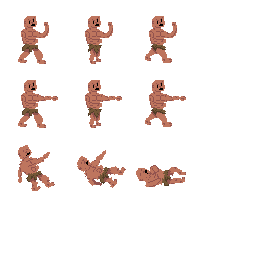
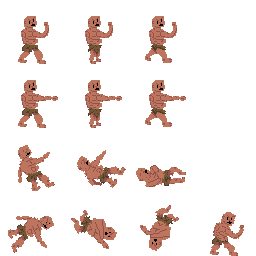
Added tridents and dodging

diff --git a/LD45-Compo-core/src/finalforeach/ld45/Gladiator.java b/LD45-Compo-core/src/finalforeach/ld45/Gladiator.java
@@ -28,9 +28,9 @@ public class Gladiator extends Fighter
 	
 	float hitTimer;
 	int i,j;
-	public Gladiator(float x,float y)
+	public Gladiator(String team,float x,float y)
 	{
-		super(x,y);
+		super(team,x,y);
 	}
 	
 	@Override
@@ -39,7 +39,7 @@ public class Gladiator extends Fighter
 		hitTimer=0.2f;
 		owSounds[MathUtils.random(0, owSounds.length-1)].play();
 	}
-	float animationTime=0, atkTimer=-1, deathTime=0;
+	float animationTime=0, atkTimer=-1, deathTime=0,rollTimer=-1;
 	@Override
 	public void update(float deltaTime) {
 		super.update(deltaTime);
@@ -52,7 +52,7 @@ public class Gladiator extends Fighter
 			j = Math.min((int)deathTime,2);
 		}else
 		{
-			if(isMoving)
+			if(isMoving&&rollTimer==-1)
 			{
 				switch(((int)animationTime) % 4)
 				{
@@ -75,6 +75,18 @@ public class Gladiator extends Fighter
 					}
 				}
 			}
+			if(rollTimer>-1)
+			{
+				rollTimer+=deltaTime*3;
+				i=3;
+				j=(int)(rollTimer*4);
+				if(rollTimer>1)
+				{
+					rollTimer=-1;
+					i=0;
+					j=0;
+				}
+			}
 		}
 	}
 	@Override
@@ -83,28 +95,34 @@ public class Gladiator extends Fighter
 	}
 
 	@Override
-	public void draw(SpriteBatch batch) {
+	public final void draw(SpriteBatch batch) {
 		if(hitTimer>0){
 			batch.setColor(1, 0, 0, 1);	
 		}
-		
-		//batch.draw(texReg[0][0], x-32, y,64,64,0,0,64,64,movedLeftLast,false);
-		batch.draw(texReg[i][j],x-32,y,32,0,64,64,lookingLeft?-1:1,1,0);
+		 drawWarrior(batch);
 		if(hitTimer>0){
 			batch.setColor(1, 1, 1, 1);	
 		}
 	}
-
+	protected void drawWarrior(SpriteBatch batch)
+	{
+		batch.draw(texReg[i][j],x-32,y,32,0,64,64,lookingLeft?-1:1,1,0);
+	}
 	@Override
 	public void onAttack()
 	{
-		if(atkTimer==-1)
+		if(atkTimer==-1 && rollTimer==-1)
 		{
 			atkTimer=0;
 			swishSounds[MathUtils.random(0, swishSounds.length-1)].play();
 			float velX = lookingLeft? -100:100;
-			Game.particles.add(new PunchParticle(x+(lookingLeft?-14:14), y+24, velX, 0,this));
+			Game.particles.add(new PunchParticle(team,x+(lookingLeft?-14:14), y+24, velX, 0,this));
 		}
+	}
+
+	@Override
+	public void onRoll() {
+		rollTimer=0;
 	}
 
 

diff --git a/LD45-Compo-core/src/finalforeach/ld45/GladiatorTrident.java b/LD45-Compo-core/src/finalforeach/ld45/GladiatorTrident.java
@@ -1,0 +1,33 @@
+package finalforeach.ld45;
+
+import com.badlogic.gdx.graphics.Texture;
+import com.badlogic.gdx.graphics.g2d.SpriteBatch;
+import com.badlogic.gdx.graphics.g2d.TextureRegion;
+import com.badlogic.gdx.math.MathUtils;
+
+public class GladiatorTrident extends Gladiator
+{
+	public static TextureRegion[][] tridentTexReg;
+	{
+		tridentTexReg = TextureRegion.split(new Texture("gladiator-trident.png"), 64, 64);
+	}
+	public GladiatorTrident(String team,float x, float y) {
+		super(team,x, y);
+	}
+	@Override
+	protected void drawWarrior(SpriteBatch batch) {
+		batch.draw(tridentTexReg[i][j],x-47,y,64-47,0,64,64,lookingLeft?-1:1,1,0);
+	}
+
+	@Override
+	public void onAttack()
+	{
+		if(atkTimer==-1)
+		{
+			atkTimer=0;
+			swishSounds[MathUtils.random(0, swishSounds.length-1)].play();
+			float velX = lookingLeft? -150:150;
+			Game.particles.add(new TridentParticle(team,x+(lookingLeft?-56:0), y+24, velX, 0,this));
+		}
+	}
+}

diff --git a/LD45-Compo-core/src/finalforeach/ld45/TridentParticle.java b/LD45-Compo-core/src/finalforeach/ld45/TridentParticle.java
@@ -1,14 +1,20 @@
 package finalforeach.ld45;
 
-public class PunchParticle extends Particle {
+public class TridentParticle extends Particle {
 
 	Fighter owner;
 	String team;
-	public PunchParticle(String team, float x, float y, float vx, float vy, Fighter owner) {
-		super(x, y, vx, vy, 0, 0);
+	public TridentParticle(String team, float x, float y, float vx, float vy, Fighter owner) {
+		super(x, y, vx, vy, 0, 1);
 		this.owner=owner;
 		this.team=team;
 	}
+
+	@Override
+	public float getMaxLifetime() {
+		return 0.4f;
+	}
+
 	@Override
 	public void update(float deltaTime) {
 		super.update(deltaTime);
@@ -16,12 +22,8 @@ public class PunchParticle extends Particle {
 		{
 			if(f!=owner && f.team!=team &&f.rect.overlaps(bounds))
 			{
-				f.hit(1);
+				f.hit(2);
 			}
 		}
-	}
-	@Override
-	public float getMaxLifetime() {
-		return 0.15f;
 	}
 }

diff --git a/LD45-Compo-core/src/finalforeach/ld45/Fighter.java b/LD45-Compo-core/src/finalforeach/ld45/Fighter.java
@@ -5,10 +5,12 @@ import com.badlogic.gdx.math.Rectangle;
 
 public abstract class Fighter
 {
+	String team;
 	float hp, invulnerableTime;
 	float x, y;
 	Rectangle rect;
-	public Fighter(float x, float y) {
+	public Fighter(String team,float x, float y) {
+		this.team=team;
 		this.x=x;
 		this.y=y;
 		this.hp=getMaxHP();
@@ -45,6 +47,15 @@ public abstract class Fighter
 	public void moveDown(){
 		movingDown=true;
 	}
+	public void roll()
+	{
+		if(invulnerableTime<=0)
+		{
+			onRoll();
+			invulnerableTime=0.5f;
+		}
+	}
+	public abstract void onRoll();
 	public void update(float deltaTime)
 	{
 		invulnerableTime-=deltaTime;

diff --git a/LD45-Compo-core/src/finalforeach/ld45/Game.java b/LD45-Compo-core/src/finalforeach/ld45/Game.java
@@ -40,7 +40,7 @@ public class Game extends ApplicationAdapter {
 		ais = new Array<AIController>();
 		
 		healthBar = new HealthBar();
-		Fighter playerFighter = new Gladiator(30, 30);
+		Fighter playerFighter = new Gladiator("Player",30, 30);
 		player = new Player(playerFighter);
 		//Fighter enemyFighter = new Gladiator(90,30);
 		

diff --git a/LD45-Compo-core/src/finalforeach/ld45/AIController.java b/LD45-Compo-core/src/finalforeach/ld45/AIController.java
@@ -65,6 +65,7 @@ public class AIController {
 	public void attackPlayer(float interval) 
 	{
 		if(fighter.isDead())return;
+		if(Game.player.fighter.isDead())return;
 		float tx = Game.player.fighter.x,ty = Game.player.fighter.y;
 		float dxSq = (fighter.x- tx)*(fighter.x- tx) ;
 		float dySq = (fighter.y- ty)*(fighter.y- ty);

diff --git a/LD45-Compo-core/src/finalforeach/ld45/Level.java b/LD45-Compo-core/src/finalforeach/ld45/Level.java
@@ -14,6 +14,7 @@ class Level1 extends Level
 	@Override
 	public void spawnWarriors() 
 	{
-		addWarrior(new MeleeAI(new Gladiator(1024,50)));
+		//addWarrior(new MeleeAI(new Gladiator("Enemy",1024,50)));
+		addWarrior(new MeleeAI(new GladiatorTrident("Enemy",1024,20)));
 	}
 }

diff --git a/LD45-Compo-core/src/finalforeach/ld45/MeleeAI.java b/LD45-Compo-core/src/finalforeach/ld45/MeleeAI.java
@@ -10,6 +10,9 @@ public class MeleeAI extends AIController {
 		super.update(deltaTime);
 		lookAtPlayer();
 		followPlayer(64);
-		attackPlayer(1);
+		if(fighter.invulnerableTime<=0)
+		{
+			attackPlayer(1);	
+		}
 	}
 }

diff --git a/LD45-Compo-core/src/finalforeach/ld45/Player.java b/LD45-Compo-core/src/finalforeach/ld45/Player.java
@@ -36,6 +36,10 @@ public class Player {
 		{
 			fighter.attack();
 		}
+		if(Gdx.input.isButtonPressed(Buttons.RIGHT))
+		{
+			fighter.roll();
+		}
 		if(screenCoords.x>fighter.x)
 		{
 			fighter.lookingLeft=false;
